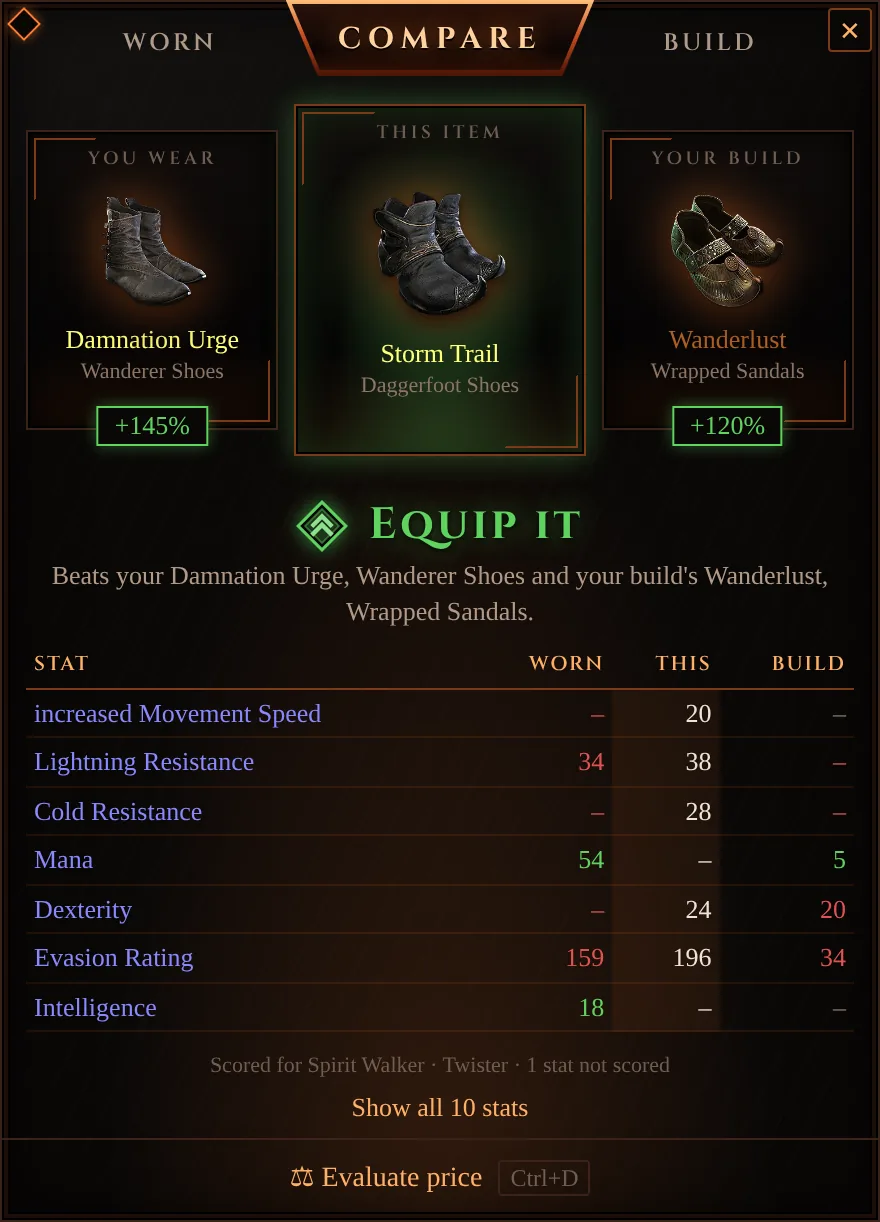
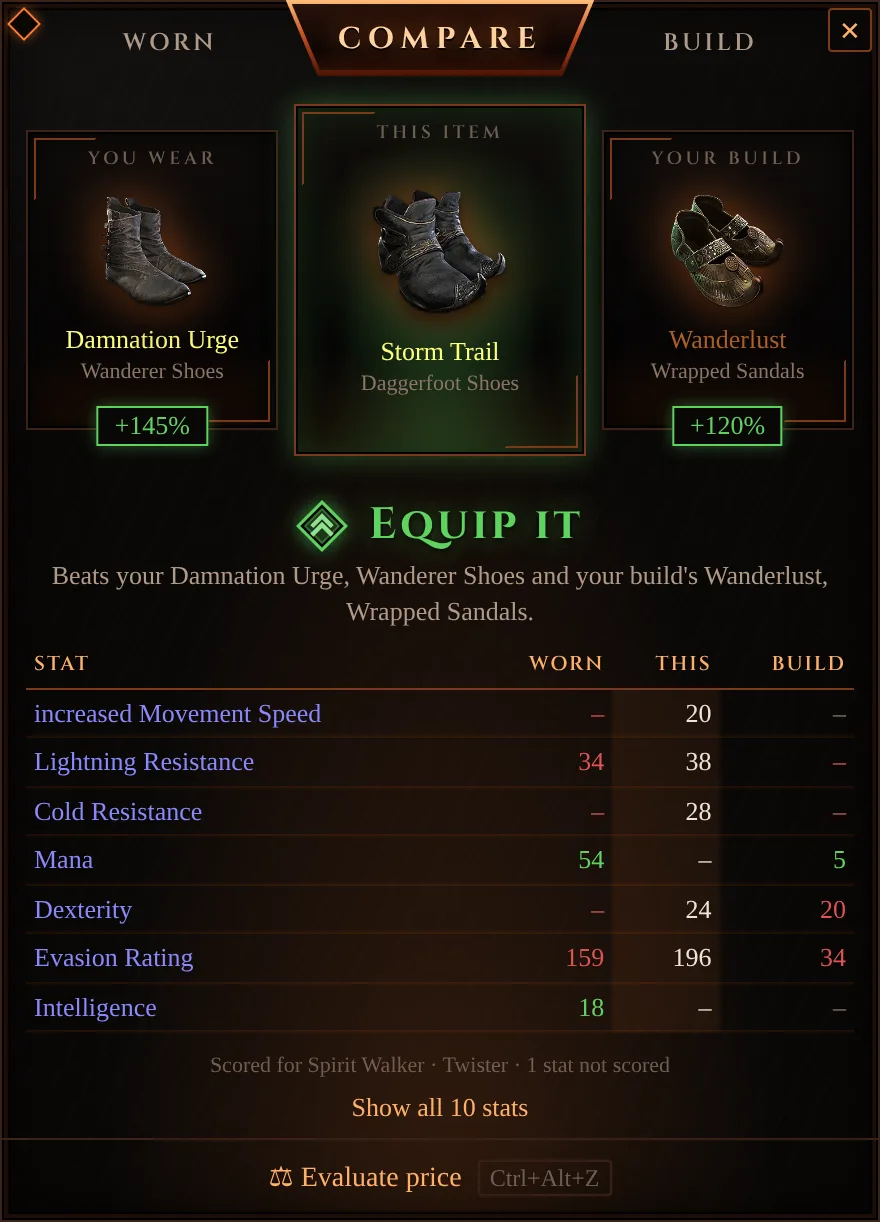
Show the new Z hotkeys on the website
Alt+Z compare, Alt+Shift+Z save equipped and Ctrl+Alt+Z price check,
matching the 0.5.3 defaults. Screenshots are retaken from 0.5.3 so the
overlay's bottom bar shows Ctrl+Alt+Z too.

Claude-Session: https://claude.ai/code/session_01XBG7MduiXcwdAWXSMEd59V

diff --git a/website/src/App.tsx b/website/src/App.tsx
@@ -41,7 +41,7 @@ export function App() {
           }
         >
           <p>
-            Press <Keys keys={['Alt', 'D']} /> on any item: in your inventory, a stash tab, a vendor or on the
+            Press <Keys keys={['Alt', 'Z']} /> on any item: in your inventory, a stash tab, a vendor or on the
             ground. Divine Mirror sets it between what you wear and what your build wants, and gives you one
             answer: <b>Equip it</b>, <b>Wear it for now</b>, <b>Your call</b> or <b>Skip it</b>.
           </p>
@@ -83,7 +83,7 @@ export function App() {
           note="Switch between the Filters and Listings tabs."
         >
           <p>
-            Press <Keys keys={['Ctrl', 'D']} /> and Divine Mirror searches the official trade site for items like
+            Press <Keys keys={['Ctrl', 'Alt', 'Z']} /> and Divine Mirror searches the official trade site for items like
             yours in the current league. The price is right at the top, with the real currency icons.
           </p>
           <ul className="ticks">
@@ -151,7 +151,7 @@ function Hero({ theme }: { theme: Theme }) {
           Is this item <em>an upgrade?</em>
         </h1>
         <p className="lead">
-          Hover it, press <Keys keys={['Alt', 'D']} />, and know. Divine Mirror puts the item between what you
+          Hover it, press <Keys keys={['Alt', 'Z']} />, and know. Divine Mirror puts the item between what you
           wear and what your build wants, stat by stat, without leaving the game.
         </p>
         <div className="hero-actions">
@@ -171,17 +171,17 @@ function Hero({ theme }: { theme: Theme }) {
 
 const steps = [
   {
-    keys: ['Alt', 'Shift', 'D'],
+    keys: ['Alt', 'Shift', 'Z'],
     title: 'Save what you wear',
     text: 'Hover each item you have equipped once. Divine Mirror remembers it, even after a restart.',
   },
   {
-    keys: ['Alt', 'D'],
+    keys: ['Alt', 'Z'],
     title: 'Compare anything',
     text: 'Hover any other item and the verdict pops up in the middle of your screen.',
   },
   {
-    keys: ['Ctrl', 'D'],
+    keys: ['Ctrl', 'Alt', 'Z'],
     title: 'Check the price',
     text: 'See what similar items sell for on the trade site before you vendor or list it.',
   },

diff --git a/website/index.html b/website/index.html
@@ -6,11 +6,11 @@
     <title>Divine Mirror · Is this item an upgrade?</title>
     <meta
       name="description"
-      content="A free overlay for Path of Exile 2. Hover an item, press Alt+D, and see if it beats what you're wearing, stat by stat."
+      content="A free overlay for Path of Exile 2. Hover an item, press Alt+Z, and see if it beats what you're wearing, stat by stat."
     />
     <meta name="theme-color" content="#0b0806" />
     <meta property="og:title" content="Divine Mirror" />
-    <meta property="og:description" content="Hover an item, press Alt+D, and see if it's an upgrade. A free overlay for Path of Exile 2." />
+    <meta property="og:description" content="Hover an item, press Alt+Z, and see if it's an upgrade. A free overlay for Path of Exile 2." />
     <meta property="og:image" content="/icon.png" />
     <link rel="icon" type="image/svg+xml" href="/icon.svg" />
     <link rel="preconnect" href="https://fonts.googleapis.com" />

diff --git a/website/src/components/HeroDemo.tsx b/website/src/components/HeroDemo.tsx
@@ -29,7 +29,7 @@ export function HeroDemo({ theme }: { theme: Theme }) {
     <div
       className="demo"
       role="img"
-      aria-label="Animation: hovering a pair of boots in the inventory and pressing Alt+D opens the Compare window, which says Equip it"
+      aria-label="Animation: hovering a pair of boots in the inventory and pressing Alt+Z opens the Compare window, which says Equip it"
     >
       <div className="demo-scene">
         <div className="demo-inventory">
@@ -59,7 +59,7 @@ export function HeroDemo({ theme }: { theme: Theme }) {
           />
         </svg>
         <span className="demo-ping" aria-hidden />
-        <Keys keys={['Alt', 'D']} className="demo-keys" />
+        <Keys keys={['Alt', 'Z']} className="demo-keys" />
         <div className="demo-overlay">
           <Screen name="compare" theme={theme} alt="" eager />
         </div>
